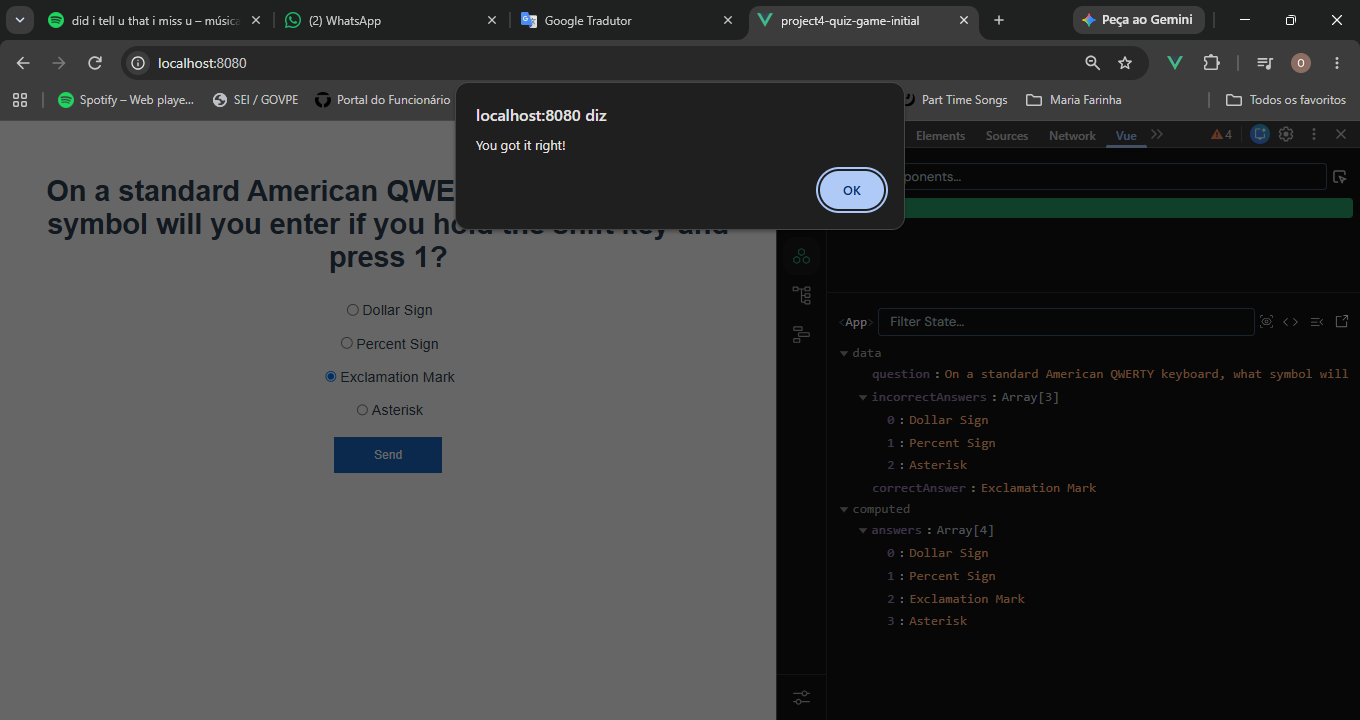
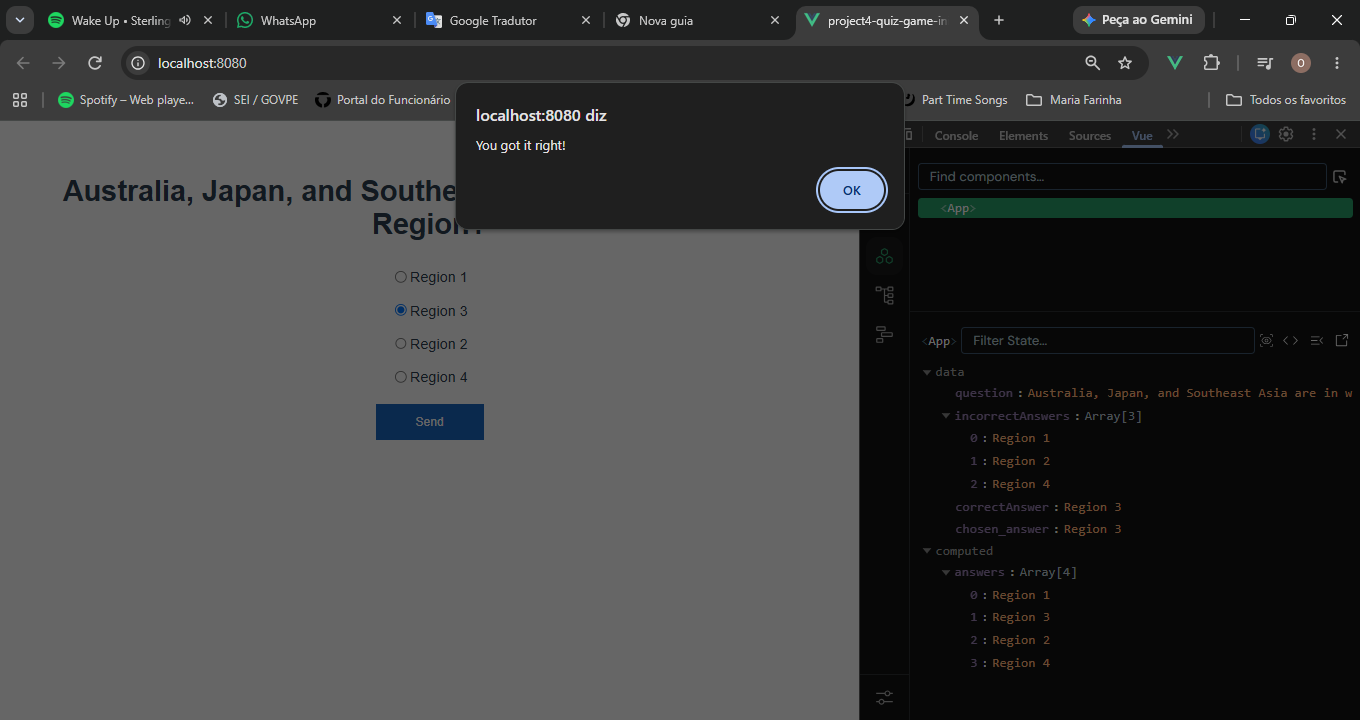
secao_3 aula_33

diff --git a/project4-quiz-game-initial/src/App.vue b/project4-quiz-game-initial/src/App.vue
@@ -8,19 +8,35 @@
 
       <template v-for="(answer, index) in this.answers" v-bind:key="index">
         <input 
+          :disabled="this.answerSubmitted" 
           type="radio" 
           name="options" 
           :value="answer"
-          v-model="this.chosen_answer"
+          v-model="this.chosenAnswer"
           >
 
         <label v-html="answer"></label><br>
       </template>
 
-      <button @click="this.submitAnswer()" class="send" type="button">Send</button>
-
-    </template>
-
+      <button v-if="!this.answerSubmitted" @click="this.submitAnswer()" class="send" type="button">Confirmar</button>
+      
+      <section class="result" v-if="this.answerSubmitted">
+        <!-- <template v-if="this.chosenAnswer == this.correctAnswer"> -->
+        <!-- <h4>&#9989; Parabéns, a resposta "{{this.correctAnswer}}" está correta.</h4> -->
+        <h4 v-if="this.chosenAnswer == this.correctAnswer">
+          &#9989; Parabéns, a resposta "{{this.correctAnswer}}" está correta.
+        </h4>
+        <!-- </template>
+        <template v-else> -->
+          <!-- <h4>&#10060;  Que pena, a resposta está errada. A resposta correta é "{{this.correctAnswer}}".</h4> -->
+          <h4 v-else>
+            &#10060;  Que pena, a resposta está errada. A resposta correta é "{{this.correctAnswer}}".
+          </h4>
+        <!-- </template> -->
+        <button @click="this.getNewQuestion()" class="send" type="button">Próxima pergunta</button>
+      </section>
+    
+  </template>
   </div>
   
 </template>
@@ -32,15 +48,15 @@ export default {
 
   data() {
     return {
-      // chosen_answer: undefined,
       question: undefined,
       // incorrectAnswers: [],
       incorrectAnswers: undefined,
       // correctAnswer: '',
       correctAnswer: undefined,
+      chosenAnswer: undefined,
       // win_count: 0,
       // lose_count: 0,
-      // answerSubmitted: false
+      answerSubmitted: false
     }
   },
 
@@ -54,15 +70,15 @@ export default {
 
   methods: {
     submitAnswer() {
-      if (!this.chosen_answer) {
+      if (!this.chosenAnswer) {
         alert('Pick one of the options');
       } else {
-      //   this.answerSubmitted = true;
-        if (this.chosen_answer == this.correctAnswer) {
-          alert('You got it right!');
+        this.answerSubmitted = true;
+        if (this.chosenAnswer == this.correctAnswer) {
+          console.log('You got it right!');
           //     this.win_count++;
         } else {
-          alert('You got it wrong!');
+          console.log('You got it wrong!');
       //     this.lose_count++
         }
       }
